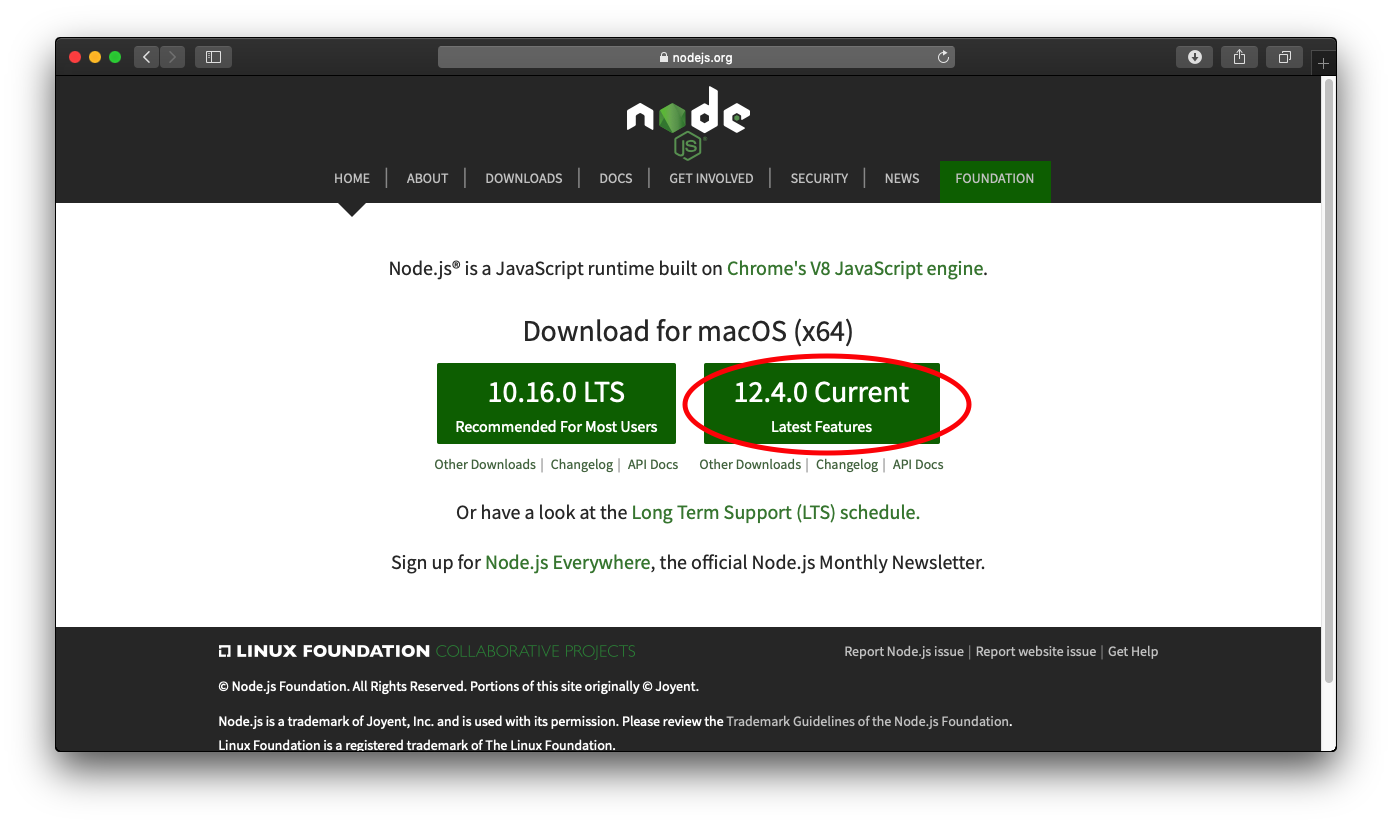
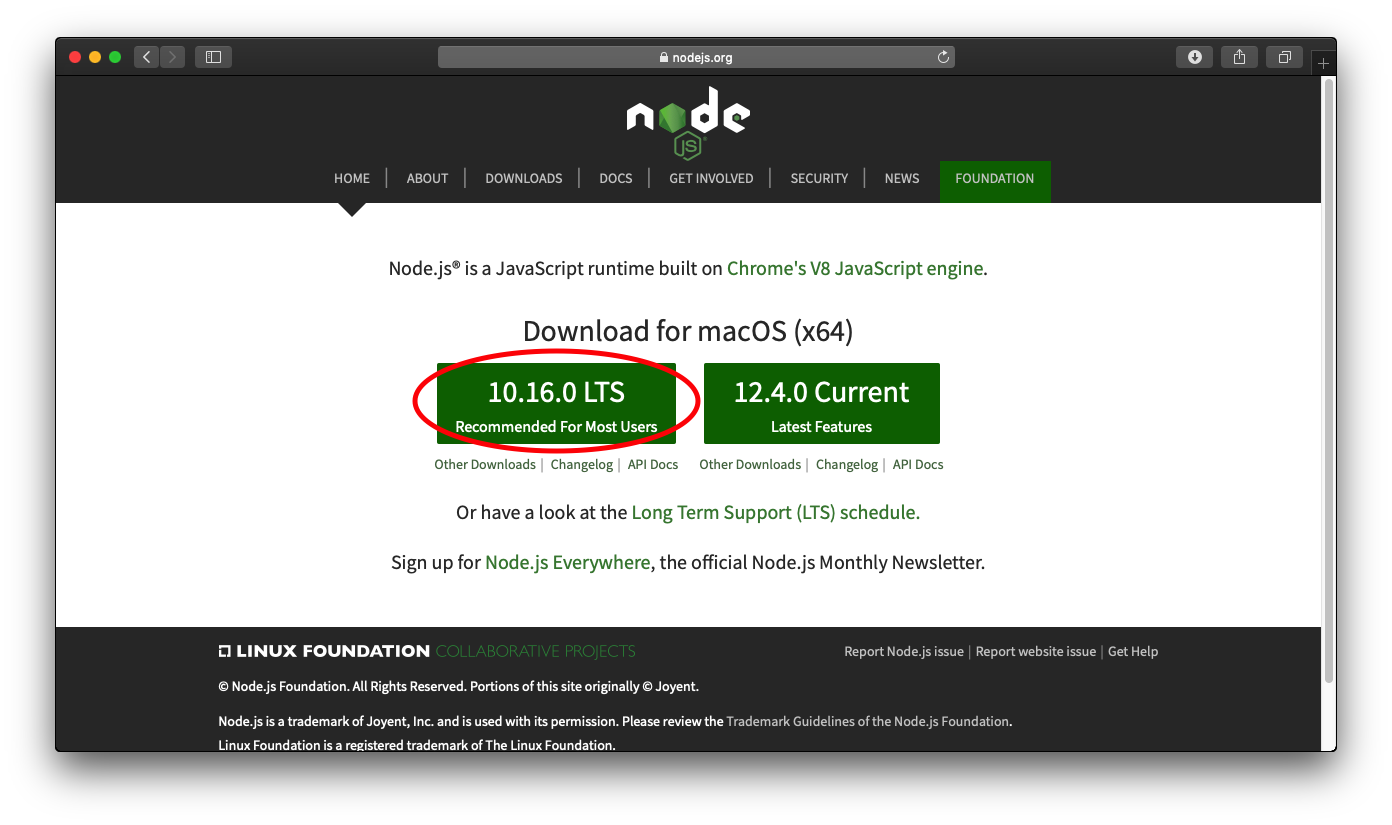
Updated the Readme for MAC. Made instructions clearer and more precise

diff --git a/README.md b/README.md
@@ -1,81 +1,65 @@
 # Web Development with Node.js
 A Repository for Web Development with Node.js
 
-## 1. Mac Server Setup
-### Mojave
-https://discussions.apple.com/docs/DOC-13841
+# Mac
+Before you begin please ensure that:
+1. You have turned on your laptop by pressing the power button
+2. You have administrative rights to your Laptop ([How to check?](https://ttlc.intuit.com/community/troubleshooting/help/administrator-rights-mac/00/25636))
+3. You are running Mac OS X 10.11 (El Capitan) or Higher ([How to check?](https://support.apple.com/en-us/HT201260))
 
-### High Sierra
-https://discussions.apple.com/docs/DOC-12034
+## 1. Download and Install FireFox
+1. Download FireFox on your [computer](https://www.mozilla.org/en-US/firefox/new/ "FireFox Laptop")
+2. Download and install FireFox on your [phone](https://play.google.com/store/apps/details?id=org.mozilla.firefox&hl=en "FireFox Phone")
 
-### Sierra
-https://medium.com/@JohnFoderaro/how-to-set-up-apache-in-macos-sierra-10-12-bca5a5dfffba
-
-### El Capitan
-https://medium.com/@JohnFoderaro/how-to-set-up-apache-in-os-x-10-11-el-capitan-637b30fe67b1
-
-## 2. Accessing your Local Web Server through Firefox
-### 2.1 Pre-requisites
-1. Steps above have already been executed
-2. FireFox has been downloaded and installed on your [computer](https://www.mozilla.org/en-US/firefox/new/ "FireFox Laptop") and your [phone](https://play.google.com/store/apps/details?id=org.mozilla.firefox&hl=en "FireFox Phone")
-3. Devices must be connected to the same network
-
-### 2.2 Finding your IP
-In Terminal type:
-```
-ifconfig
-```
-
-Look for either `en0` or `en1` and look for `inet` for the IP address
-
-![image of ifconfig](https://github.com/yongchenglow/webDevNode/blob/master/ifconfig.png "ifconfig")
-
-By typing this IP address on FireFox on any devices that is connected to the same network, you will be able to access your web application.
-
-## 3. Installing Node.js
-In order to install Node.js go to the following [website](https://nodejs.org/en/ "Node.js Homepage") and download the current version which has the latest features.
+## 2. Install Node.js
+Install Node.js by going to the following [website](https://nodejs.org/en/ "Node.js Homepage") and __download the LTS version__.
 
 ![image of Node JS Homepage](https://github.com/yongchenglow/webDevNode/blob/master/NodeHomepage.png "NodeHomepage")
 
-After installing Node.js to check that everything has been installed correctly, open the terminal application and type in the following command:
+After installing Node.js, check that everything has been installed correctly, open the terminal application and type in the following:
 
 > node -v
 
-If you see it return a node number you are good to go.
+If you see it return the version number `10.16.0`, all is well.
 
 ## 4. Creating your first Web Application
-In your terminal, navigate to your project folder and type in the following commands:
-> sudo<space>npm<space>install<space>express-generator<space>-g
 
-> sudo<space>express<space>-v<space>ejs<space>-c<space>ass<space>myappname
+1. Create a folder in `Documents` called `WebApplication`
+2. Open Terminal
+3. Navigate your folder by typing the following
+> cd Documents/WebApplication
 
-Note:
-1. In order to navigate your project folder, you can use the unix commands
-2. Else type `cd` and then drag your project folder into your terminal and press enter
+4. Type in the following commands:
+> sudo`<space>`npm`<space>`install`<space>`express-generator`<space>`-g
 
-cd myappname
-cd npm install
-cd npm start
+> sudo`<space>`express`<space>`-v`<space>`ejs`<space>`-c`<space>`ass`<space>`myappn
+
+> cd`<space>`myapp
+> sudo`<space>`npm`<space>`install
 
 ## 5. Understanding your first Web Application
 ### Prerequisite
 1. Download and Install [Atom](https://atom.io "Atom") or any other editor
 
 ### Understanding
-1. Open your editor
-2. Drag your project folder into the editor
-3. Expand the `myappname` folder in your editor
+1. Open Atom
+2. Click on `File`
+3. Click on `Add Project Folder`
+4. Double Click on the `Home` icon
+5. Double Click on `Documents` folder
+6. Single click on `myapp` folder
+7. Single Click on the `open` button at the bottom right
+8. On Atom, expand the `views` folder on the left hand panel
+9. Click on `index.ejs`
 
-By looking at the folder, you can see that all the files that were automatically created for you with Express generator. Within the `index.ejs` you can make edits and build your complex web app from there:
+By looking at the folder, you can see that all the files that were automatically created for you with the Express generator. Within the `index.ejs` file, you can make edits and build your complex web app from there:
 
 ![image of Index Page](https://github.com/yongchenglow/webDevNode/blob/master/IndexPage.png "IndexPage")
 
 ## 6. Running your first Web Application
-In the terminal app, navigate to the `myappname` folder and then type the following command:
+Go back to the the terminal app, check that you are in the project folder `<yourshortname>:myapp` else navigate to the `myappname` folder and then type the following command:
 
-> npm start
-
-> This will start a virtual server
+> npm`<space>`start
 
 Go to the address bar of your internet browser and type
 > localhost:3000
@@ -85,13 +69,16 @@ You should see the following window:
 
 If you run into any issues, you can find Yong Cheng or read this article on [Hackernoon](https://hackernoon.com/build-your-first-local-server-and-web-app-with-node-js-5a5d9e00aff0 "Creating your first website") for more information.
 
-Use steps 2.2 to find the ip address. In order to access the page on your phone, ensure that it is connected to the same network and then type `ip:3000` in FireFox. An example is:
+## 7. Running your Web Application on other devices
+1. Open a new Terminal Window and Type:
+> ifconfig
+
+Look for either `en0` or `en1` and look for `inet` for the IP address
+
+![image of ifconfig](https://github.com/yongchenglow/webDevNode/blob/master/ifconfig.png "ifconfig")
+
+By typing this IP address on FireFox on any devices that is __connected to the same network__, you will be able to access your web application. Therefore if you node application is running you can type `ipAddress:3000` to access it on your phone. E.g.
 > 172.17.85.56:3000
-
-## Setting Up of MySQL (Optional)
-https://discussions.apple.com/docs/DOC-3082
-
-Note: You can stop after your start MySQL, you don't need to configure Perl
 
 ## Running the different applications
 Go to the following website:
